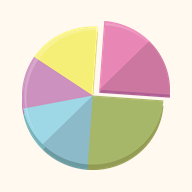
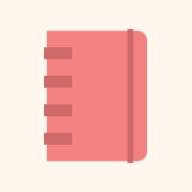
ไอคอน

diff --git a/index.html b/index.html
@@ -41,14 +41,14 @@
   <link rel="stylesheet" href="https://cdnjs.cloudflare.com/ajax/libs/font-awesome/6.4.0/css/all.min.css">
   <script src="https://cdn.jsdelivr.net/npm/chart.js"></script>
   
-  <link rel="stylesheet" href="css/01-base.css?v=2026-09-27-v54">
-  <link rel="stylesheet" href="css/02-analytics.css?v=2026-09-27-v54">
-  <link rel="stylesheet" href="css/03-layout.css?v=2026-09-27-v54">
-  <link rel="stylesheet" href="css/04-discipline.css?v=2026-09-27-v54">
-  <link rel="stylesheet" href="css/05-theme.css?v=2026-09-27-v54">
-  <link rel="stylesheet" href="css/06-components.css?v=2026-09-27-v54">
-  <link rel="stylesheet" href="css/07-pastel.css?v=2026-09-27-v54">
-  <link rel="stylesheet" href="css/08-extras.css?v=2026-09-27-v54">
+  <link rel="stylesheet" href="css/01-base.css?v=2026-09-28-v56">
+  <link rel="stylesheet" href="css/02-analytics.css?v=2026-09-28-v56">
+  <link rel="stylesheet" href="css/03-layout.css?v=2026-09-28-v56">
+  <link rel="stylesheet" href="css/04-discipline.css?v=2026-09-28-v56">
+  <link rel="stylesheet" href="css/05-theme.css?v=2026-09-28-v56">
+  <link rel="stylesheet" href="css/06-components.css?v=2026-09-28-v56">
+  <link rel="stylesheet" href="css/07-pastel.css?v=2026-09-28-v56">
+  <link rel="stylesheet" href="css/08-extras.css?v=2026-09-28-v56">
 </head>
 <body>
 
@@ -1160,24 +1160,24 @@
   
   
 
-  <script src="js/01-config.js?v=2026-09-27-v54"></script>
-  <script src="js/02-api.js?v=2026-09-27-v54"></script>
-  <script src="js/03-app.js?v=2026-09-27-v54"></script>
-  <script src="js/04-auth.js?v=2026-09-27-v54"></script>
-  <script src="js/05-theme.js?v=2026-09-27-v54"></script>
-  <script src="js/06-pwa.js?v=2026-09-27-v54"></script>
-  <script src="js/07-filters.js?v=2026-09-27-v54"></script>
-  <script src="js/08-calendar-performance.js?v=2026-09-27-v54"></script>
-  <script src="js/09-chart-page.js?v=2026-09-27-v54"></script>
-  <script src="js/10-session.js?v=2026-09-27-v54"></script>
-  <script src="js/11-news.js?v=2026-09-27-v54"></script>
-  <script src="js/12-discipline.js?v=2026-09-27-v54"></script>
-  <script src="js/13-trade-form.js?v=2026-09-27-v54"></script>
-  <script src="js/14-dashboard.js?v=2026-09-27-v54"></script>
-  <script src="js/15-profile.js?v=2026-09-27-v54"></script>
-  <script src="js/16-my-tradingview.js?v=2026-09-27-v54"></script>
-  <script src="js/17-pastel-ui.js?v=2026-09-27-v54"></script>
-  <script src="js/18-timeframe.js?v=2026-09-27-v54"></script>
-  <script src="js/19-open-trades.js?v=2026-09-27-v54"></script>
+  <script src="js/01-config.js?v=2026-09-28-v56"></script>
+  <script src="js/02-api.js?v=2026-09-28-v56"></script>
+  <script src="js/03-app.js?v=2026-09-28-v56"></script>
+  <script src="js/04-auth.js?v=2026-09-28-v56"></script>
+  <script src="js/05-theme.js?v=2026-09-28-v56"></script>
+  <script src="js/06-pwa.js?v=2026-09-28-v56"></script>
+  <script src="js/07-filters.js?v=2026-09-28-v56"></script>
+  <script src="js/08-calendar-performance.js?v=2026-09-28-v56"></script>
+  <script src="js/09-chart-page.js?v=2026-09-28-v56"></script>
+  <script src="js/10-session.js?v=2026-09-28-v56"></script>
+  <script src="js/11-news.js?v=2026-09-28-v56"></script>
+  <script src="js/12-discipline.js?v=2026-09-28-v56"></script>
+  <script src="js/13-trade-form.js?v=2026-09-28-v56"></script>
+  <script src="js/14-dashboard.js?v=2026-09-28-v56"></script>
+  <script src="js/15-profile.js?v=2026-09-28-v56"></script>
+  <script src="js/16-my-tradingview.js?v=2026-09-28-v56"></script>
+  <script src="js/17-pastel-ui.js?v=2026-09-28-v56"></script>
+  <script src="js/18-timeframe.js?v=2026-09-28-v56"></script>
+  <script src="js/19-open-trades.js?v=2026-09-28-v56"></script>
 </body>
 </html>

diff --git a/sw.js b/sw.js
@@ -1,6 +1,6 @@
 // Service Worker — LiewTrade Journal
 // เวอร์ชัน cache เปลี่ยนทุก release (tools/release.py แก้ให้อัตโนมัติ) → cache เก่าถูกลบทิ้ง
-const CACHE_NAME = 'tradejournal-cache-2026-09-27-v54';
+const CACHE_NAME = 'tradejournal-cache-2026-09-28-v56';
 const PRECACHE = ['./', './index.html', './manifest.json', './icon-192.png', './icon-512.png'];
 
 self.addEventListener('install', event => {

diff --git a/js/06-pwa.js b/js/06-pwa.js
@@ -1,4 +1,4 @@
-window.APP_BUILD = '2026-09-27-v54';
+window.APP_BUILD = '2026-09-28-v56';
 console.log('[APP] LiewTrade Journal build', window.APP_BUILD);
 // แสดงเลขเวอร์ชันในหน้าตั้งค่า
 (function(){ var el = document.getElementById('appVersionLabel'); if (el) el.textContent = 'เวอร์ชัน ' + window.APP_BUILD; })();
